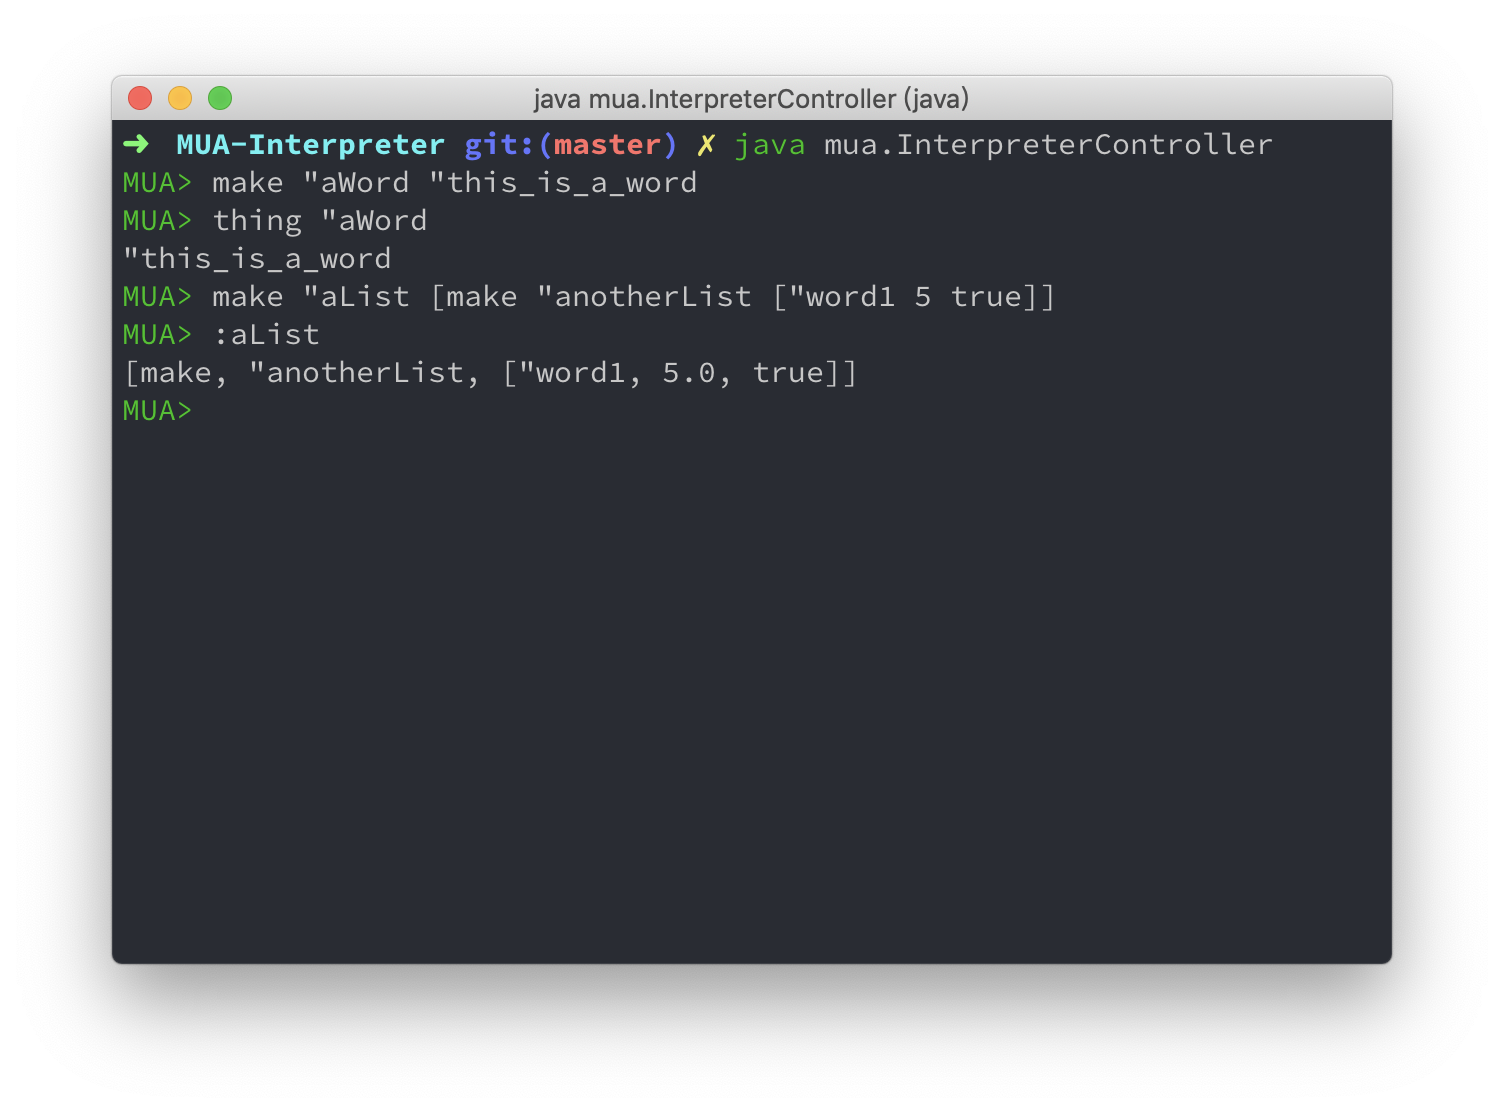
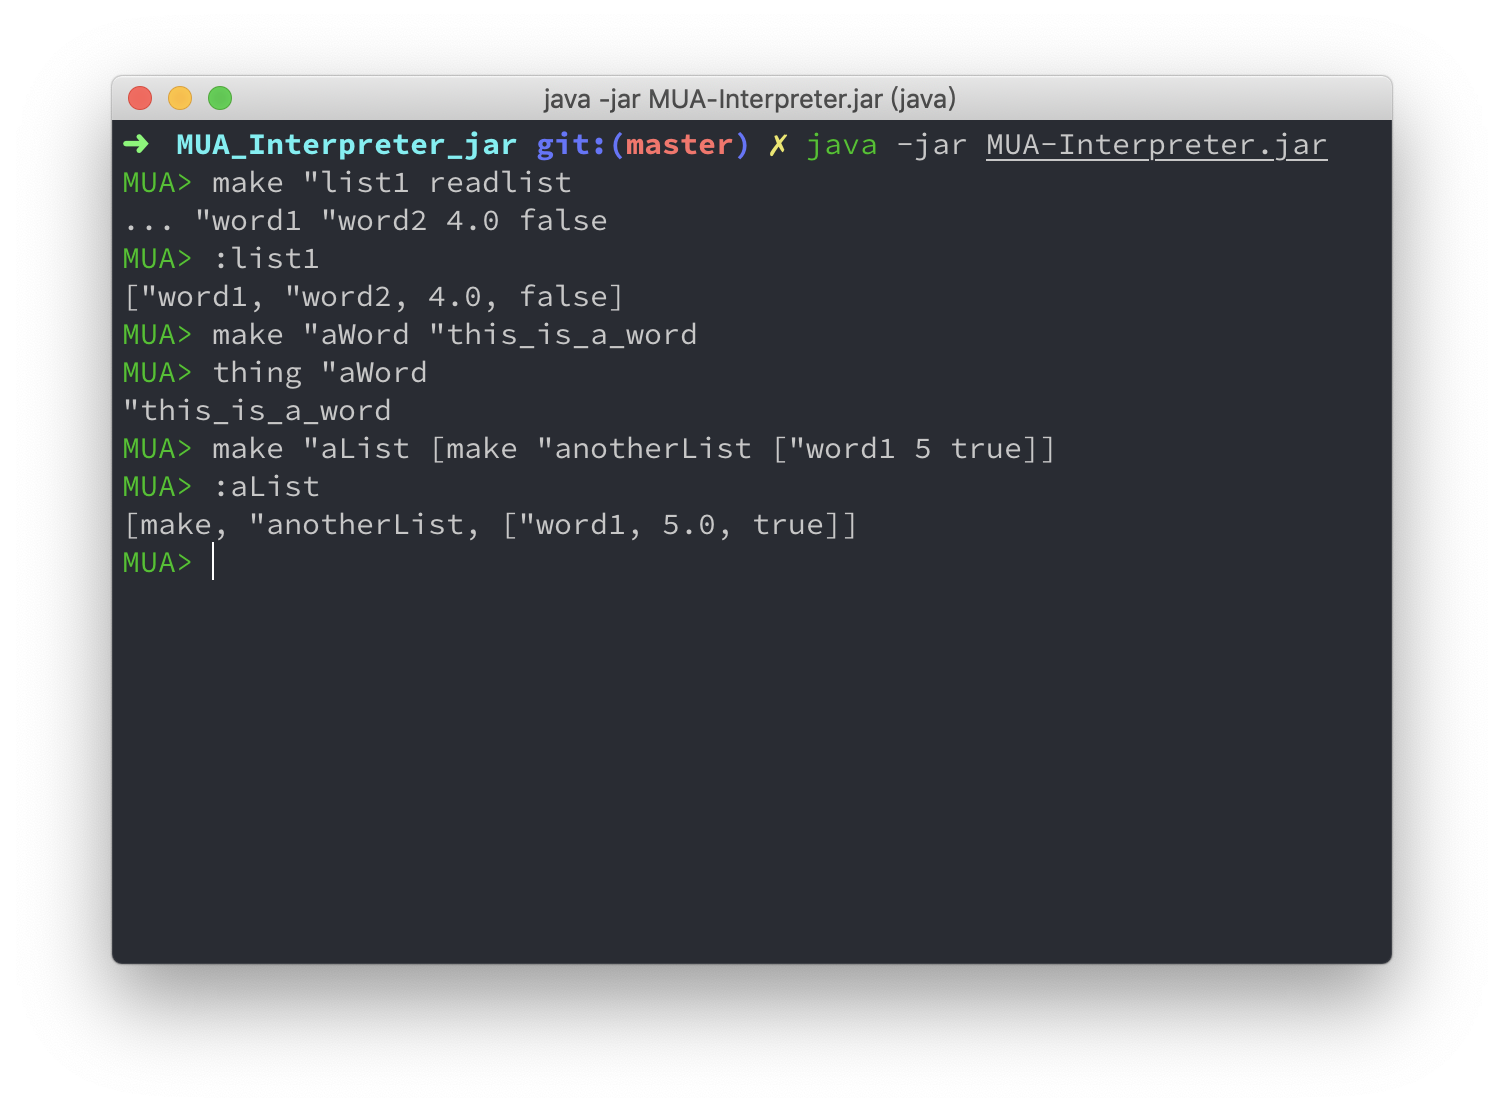
minor change on CLI

diff --git a/src/mua/CommandLineInterface.java b/src/mua/CommandLineInterface.java
@@ -9,7 +9,7 @@ import java.util.Scanner;
 
 class CommandLineInterface {
 	private static final String GET_INSTRUCTION_PROMPT = ConsoleColors.GREEN + "MUA> " + ConsoleColors.RESET;
-	private static final String CONTINUE_INPUT_PROMPT = "...";
+	private static final String CONTINUE_INPUT_PROMPT = "... ";
 	private static final String EXIT_PROMPT = "Leave MUA Interpreter.";
 
     private static InputStream inputStream = System.in;

diff --git a/README.md b/README.md
@@ -1,6 +1,10 @@
 # MUA Interpreter
 
-陈佳伟 3160102178
+陈佳伟 
+
+3160102178
+
+3160102178@zju.edu.cn
 
 ## 实现的功能
 
@@ -99,8 +103,7 @@
 ## 运行方法
 
 ```shell
-cd "MUA-Interpreter"
-java mua.InterpreterController
+java -jar MUA-Interpreter.jar
 ```
 
 ## 运行效果
@@ -252,8 +255,6 @@ add 3 4 //this is a comment
 ```
 exit
 ```
-
-
 
 ## 可改进的地方
 
